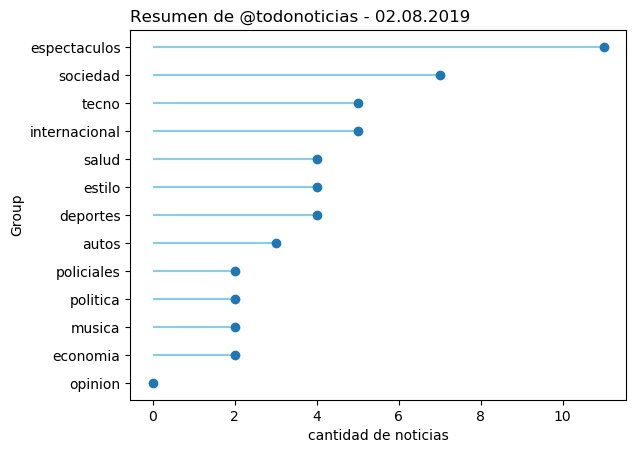
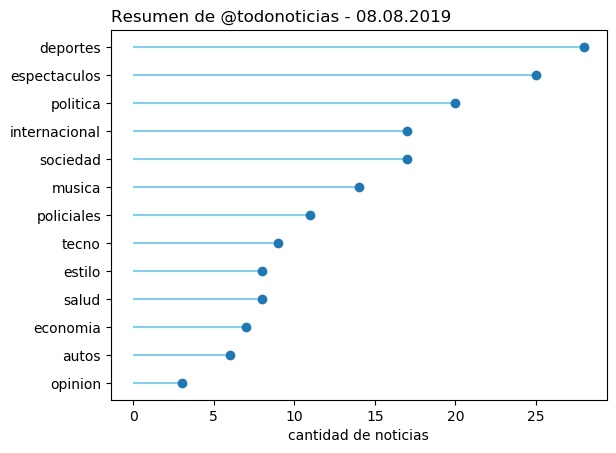
script para twittear intensidad + script para twittear perfiles + cambio de cantidad de colormaps.

diff --git a/dlm.py b/dlm.py
@@ -119,20 +119,9 @@ def top_todo(parametros):
         print(texto)
 
         if twittear:
-            # claves = open("twitter.keys", "r")
-            # json_claves = json.load(claves)
-
-            # consumer_key = json_claves['consumer_key']
-            # consumer_secret = json_claves['consumer_secret']
-            # access_token = json_claves['access_token']
-            # access_token_secret = json_claves['access_token_secret']
-            # auth = tweepy.OAuthHandler(consumer_key, consumer_secret)
-            # auth.set_access_token(access_token, access_token_secret)
-            # api = tweepy.API(auth)
 
             path_imagen = tag + ".png"
             utiles.nube_de_palabras(path=path_imagen, data=dict(top_todo))
-            # api.update_with_media(filename=path_imagen, status=texto)
             utiles.twittear(texto=texto, path_imagen=path_imagen)
 
 
@@ -381,9 +370,21 @@ def intensidad(parametros):
     im, cbar = utiles.heatmap(conteo, etiqueta_medios, categorias, ax=ax, cmap=utiles.cmap_del_dia(), cbarlabel=string_fecha, cbar_format="{x:.0f}%")
     texts = utiles.annotate_heatmap(im, valfmt="{x:.1f}")
 
+    path_imagen = "intensidad.jpg"
+
     fig.tight_layout()
-    # plt.show()
-    plt.savefig("intensidad.jpg")
+    plt.savefig(path_imagen, bbox_inches='tight',dpi=100)
+
+    if len(categorias) > 0:
+        hashtags_categorias = " #" + " #".join([" #".join(categorias[:-1]),categorias[-1]] if len(categorias) > 2 else categorias)
+
+    medios = list(medios)
+    if len(medios) > 0:
+        hashtags_medios = " #" + " #".join([" #".join(medios[:-1]),medios[-1]] if len(medios) > 2 else medios)
+
+    if twittear:
+        texto = "Porcentaje de noticias x categoría." + hashtags_medios + hashtags_categorias + "."
+        utiles.twittear(texto=texto, path_imagen=path_imagen) 
 
 def perfil(parametros):
     fecha = parametros['fecha']
@@ -423,18 +424,13 @@ def perfil(parametros):
 
         data = []
         data.extend([n*100/total for n in lista_medio])
-        conteo = np.array(data)
 
-        # utiles.histograma(path="perfil-" + tag + ".jpg", titulo="Resumen de " + diario['twitter'] + " - " + string_fecha, etiquetas=categorias, unidad="%", data=data)
-        utiles.lollipop(path="perfil-" + tag + ".jpg", colormap=utiles.cmap_del_dia(), titulo="Resumen de " + diario['twitter'] + " - " + string_fecha, etiquetas=categorias, unidad="cantidad de noticias", valfmt="{x:.0f}", data=lista_medio)
+        path_imagen = "perfil-" + tag + ".jpg"
+        utiles.lollipop(path=path_imagen, colormap=utiles.cmap_del_dia(), titulo="Resumen de " + diario['twitter'] + " - " + string_fecha, etiquetas=categorias, unidad="cantidad de noticias", valfmt="{x:.0f}", data=lista_medio)
 
-        # fig, ax = plt.subplots()
-        # im, cbar = utiles.heatmap(conteo, etiqueta_medios, categorias, ax=ax, cmap=utiles.cmap_del_dia(), cbarlabel=string_fecha, cbar_format="{x:.0f}%")
-        # texts = utiles.annotate_heatmap(im, valfmt="{x:.1f}")
-
-        # fig.tight_layout()
-        # plt.show()
-        # plt.savefig("perfil-" + tag + ".jpg")
+        if twittear:
+            texto = "Suma de noticias de #" + tag + " del " + string_fecha + ", en cada una de sus secciones."
+            utiles.twittear(texto=texto, path_imagen=path_imagen)
 
 def usage():
     print("dlm (dicen-los-medios) v1.1")

diff --git a/medios/diarios/paginadoce.py b/medios/diarios/paginadoce.py
@@ -31,7 +31,11 @@ class PaginaDoce(Diario):
             categoria, titulo, texto = self.parsear_noticia(url=url)
             if texto == None:
                 continue
-            self.noticias.append(Noticia(fecha=fecha, url=url, diario=self.etiqueta, categoria=categoria, titulo=titulo, texto=texto))
+
+            if categoria not in self.categorias:
+                continue
+                
+            self.noticias.append(Noticia(fecha=fecha, url=url, diario=self.etiqueta, categoria=categoria, titulo=titulo, texto=self.limpiar_texto(texto)))
 
     def entradas_feed(self):
         urls_fechas = []
@@ -69,3 +73,8 @@ class PaginaDoce(Diario):
         categoria = feed.find(lambda tag: tag.name == 'div' and tag.get('class') == ['suplement']).text
         signos = string.punctuation + "¡¿\n"
         return categoria.translate(str.maketrans('áéíóúý', 'aeiouy', signos)).strip().lower()
+
+    def limpiar_texto(self, texto):
+        regexp = re.compile(r'Loading tweet ...')
+        texto = re.sub(regexp,' ',texto)
+        return texto

diff --git a/medios/diarios/diario.py b/medios/diarios/diario.py
@@ -15,6 +15,7 @@ class Diario(Medio):
         self.noticias = []
         self.feeds = {}
         self.feed_noticias = ""
+        self.categorias = []
         self.configurar()
 
     def configurar(self):
@@ -29,9 +30,13 @@ class Diario(Medio):
                 continue
             if 'feed_noticias' in diario:
                 self.feed_noticias = diario['feed_noticias']
+            if 'categorias' in diario:
+                self.categorias = diario['categorias']
             if 'feeds' in diario:
+                self.categorias = []
                 for feed in diario['feeds']:
                     self.feeds[feed['tag']] = feed['url']
+                    self.categorias.append(feed['tag'])
                     
     def leer(self):
         kiosco = Kiosco()

diff --git a/utiles.py b/utiles.py
@@ -180,8 +180,11 @@ def lollipop(path, colormap, titulo, etiquetas, unidad, data, valfmt="{x:.2f}"):
 
 def cmap_del_dia():
 
-    cmaps = plt.colormaps()
-    
+    # cmaps = plt.colormaps()
+    cmaps = ['Greys', 'Purples', 'Blues', 'Greens', 'Oranges', 'Reds',
+            'YlOrBr', 'YlOrRd', 'OrRd', 'PuRd', 'RdPu', 'BuPu',
+            'GnBu', 'PuBu', 'YlGnBu', 'PuBuGn', 'BuGn', 'YlGn']
+             
     hoy = datetime.datetime.now()
     idx = (hoy.year + hoy.month + hoy.day) % len(cmaps)
 

diff --git a/medios/diarios/eldestape.py b/medios/diarios/eldestape.py
@@ -48,6 +48,9 @@ class ElDestape(Diario):
             if categoria == "internacionales":
                 categoria = "internacional"
 
+            if categoria not in self.categorias:
+                continue
+                
             urls_fechas_titulo_categoria.append((url, fecha, titulo, categoria))
             
         return urls_fechas_titulo_categoria

diff --git a/medios/diarios/infobae.py b/medios/diarios/infobae.py
@@ -44,6 +44,9 @@ class Infobae(Diario):
             if categoria == "deportes-2":
                 categoria = "deportes"
 
+            if categoria not in self.categorias:
+                continue
+
             self.noticias.append(Noticia(fecha=fecha, url=url, diario=self.etiqueta, categoria=categoria, titulo=titulo, texto=self.limpiar_texto(texto)))
 
 

diff --git a/medios/diarios/lanacion.py b/medios/diarios/lanacion.py
@@ -45,6 +45,9 @@ class LaNacion(Diario):
             if categoria == "el-mundo":
                 categoria = "internacional"
 
+            if categoria not in self.categorias:
+                continue
+
             urls_fechas_titulo_categoria.append((url, fecha, titulo, categoria))
             
         return urls_fechas_titulo_categoria

diff --git a/medios/diarios/clarin.py b/medios/diarios/clarin.py
@@ -45,6 +45,9 @@ class Clarin(Diario):
             if categoria == "mundo":
                 categoria = "internacional"
 
+            if categoria not in self.categorias:
+                continue
+
             urls_fechas_titulo_categoria.append((url, fecha, titulo, categoria))
             
         return urls_fechas_titulo_categoria

diff --git a/medios/diarios/tn.py b/medios/diarios/tn.py
@@ -45,6 +45,9 @@ class TN(Diario):
             if categoria == "show":
                 categoria = "espectaculos"
 
+            if categoria not in self.categorias:
+                continue
+
             urls_fechas_titulo_categoria.append((url, fecha, titulo, categoria))
             
         return urls_fechas_titulo_categoria
